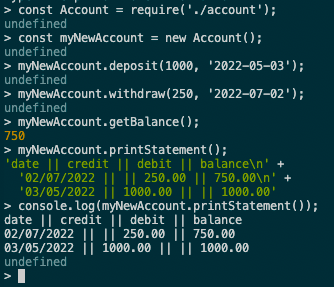
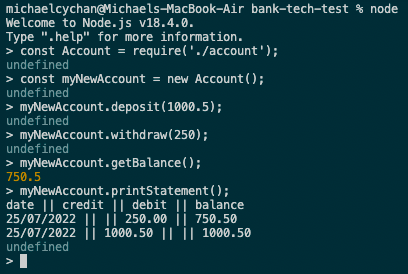
refined date dispaly. updated screenshots

Changed region(s): [[0.0, 0.0, 0.988, 0.9927], [0.8383, 0.6131, 0.8683, 0.6423]]

diff --git a/account.js b/account.js
@@ -3,35 +3,32 @@ class Account {
     this.balance = 0;
     this.transactions = []; // array to store transactions data
   }
-  deposit(money, date = Date.now()) {
+  deposit(money, date = new Date()) { // Default value is 'today'
     this.balance += money;
     this.transactions.push({date: date, in: money, out: null, balance: this.balance});
   }
-  withdraw(money, date = Date.now()) {
+  withdraw(money, date = new Date()) { // Default value is 'today'
     this.balance -= money;
     this.transactions.push({date: date, in: null, out: money, balance: this.balance});
   }
   getBalance() {
     return this.balance;
   }
-
   printStatement() {
     console.log(this.#generateFullStatement());
   }
 
   // internal functions
-
   #numberToDisplay(number) {
     // return null if input is null, otherwise return number with 2 decimal places.
     return (number === null) ? null : number.toFixed(2);
   }
-
   #generateStatementContent() {
     let contents = [];
     this.transactions.forEach((transaction) => {
       contents.push(
         [
-          transaction.date.toLocaleDateString("en-GB"),
+          transaction.date.toLocaleDateString('en-GB'),
           this.#numberToDisplay(transaction.in),
           this.#numberToDisplay(transaction.out),
           this.#numberToDisplay(transaction.balance)
@@ -40,7 +37,6 @@ class Account {
     });
     return "\n" + contents.reverse().join("\n");
   }
-
   #generateFullStatement() {
     const header = "date || credit || debit || balance";
     const contents = this.#generateStatementContent();

diff --git a/readme.md b/readme.md
@@ -45,16 +45,16 @@ Once you are inside Node.js, import the Account Class and create a new Account C
 You will be able to deposit and withdraw from the bank account. When you deposit money, it is necessary to enter the date in YYYY-MM-DD format.
 You can check the account balance or get the full bank statement.
 ```
-> myNewAccount.deposit(1000, '2022-05-03');
+> myNewAccount.deposit(1000);
 undefined
-> myNewAccount.withdraw(250, '2022-07-02');
+> myNewAccount.withdraw(250);
 undefined
 > myNewAccount.getBalance();
 750
 > myNewAccount.printStatement();
 'date || credit || debit || balance\n' +
-  '02/07/2022 || || 250.00 || 750.00\n' +
-  '03/05/2022 || 1000.00 || || 1000.00'
+  '25/07/2022 || || 250.00 || 750.00\n' +
+  '25/05/2022 || 1000.00 || || 1000.00'
 ```
 ## Screenshot
 ![Screenshot](./screenshots/BankTechTest-Screenshot-1.png "Screenshot")
